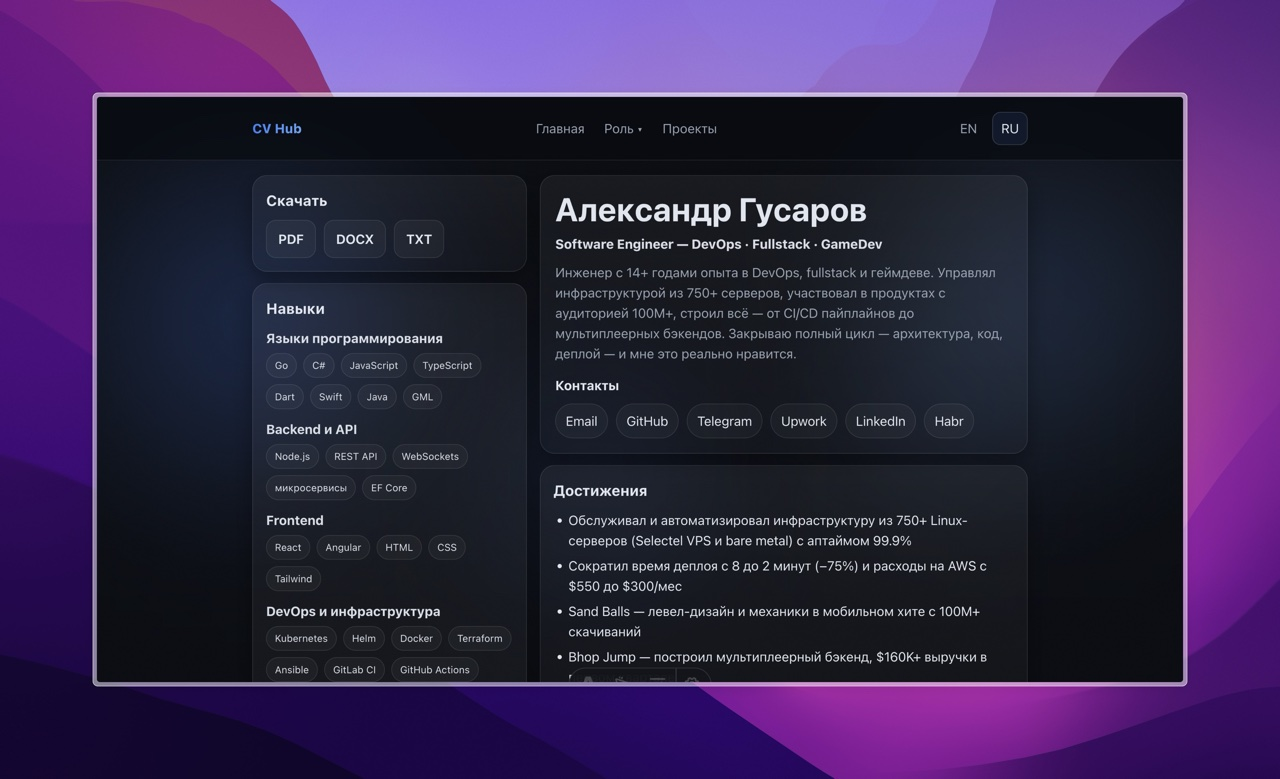
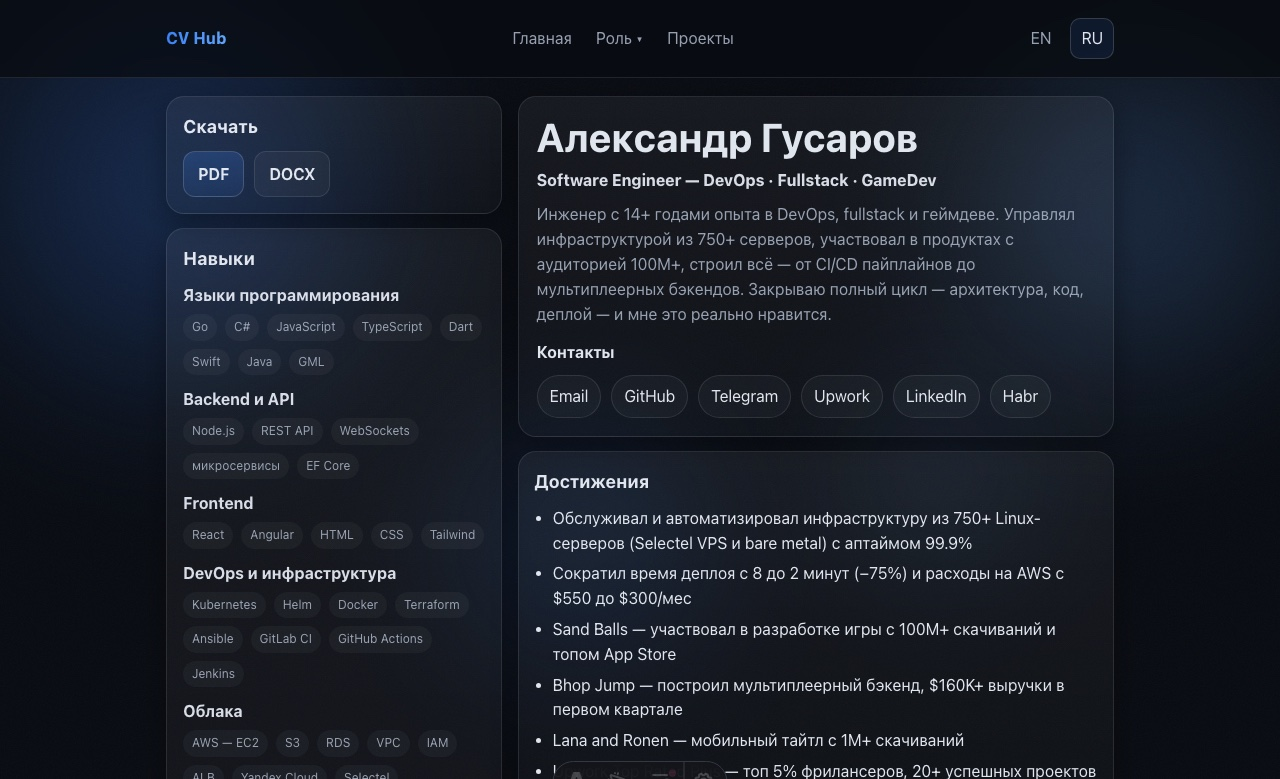
UPD/ idk thats huge 1.6.0 pre-release update

diff --git a/src/content.config.ts b/src/content.config.ts
@@ -193,6 +193,33 @@ const i18n = defineCollection({
   }),
 });
 
+// Site — deployment-wide settings, not tied to any profile or language.
+// Grows over time (analytics opt-in, "open to work" status, footer credit
+// toggle, ...); `downloads` is the first field. See docs/INFO.md.
+const downloadFormat = z.enum(['pdf', 'pdfAts', 'docx', 'txt']);
+
+const site = defineCollection({
+  loader: glob({ pattern: '*.{yaml,yml}', base: './src/content/site' }),
+  schema: z.object({
+    // Flat = one implicit ungrouped bucket: downloads: [pdf, docx].
+    // Grouped = a labeled section per audience — required as soon as two
+    // entries would render the same button label (e.g. pdf + pdfAts both
+    // show "PDF"); see docs/INFO.md §17 for the convention.
+    downloads: z.union([
+      z.array(downloadFormat),
+      z.array(z.object({
+        group: z.string().nullable().optional().default(null),
+        items: z.array(downloadFormat),
+      })),
+    ]).optional().default(['pdf', 'docx']),
+    // Opt-out "Made with CV Hub" footer credit, next to the GitHub link —
+    // always points at the upstream project (not GITHUB_REPOSITORY, unlike
+    // the rest of the footer), so every deployed fork stays a discoverable
+    // backlink. On by default; set to false to remove it.
+    footerCredit: z.boolean().optional().default(true),
+  }),
+});
+
 export const collections = {
   cv,
   showcase,
@@ -200,4 +227,5 @@ export const collections = {
   profiles,
   languages,
   i18n,
+  site,
 };

diff --git a/src/styles/global.css b/src/styles/global.css
@@ -543,6 +543,13 @@ a:hover { text-decoration: underline; }
   flex-wrap: wrap;
 }
 
+/* A grouped download row's own title sits flush under the card heading, but
+   a second (or later) group needs breathing room above it — matched on "a
+   title right after a previous button row", so the first group is untouched. */
+.btnrow + .skillsgroup__title {
+  margin-top: 14px;
+}
+
 .btn {
   display: inline-block;
   padding: 10px 14px;
@@ -953,6 +960,12 @@ a:hover { text-decoration: underline; }
   justify-content: space-between;
   font-size: 13px;
   color: var(--muted);
+}
+
+.footer__links {
+  display: flex;
+  align-items: center;
+  gap: 16px;
 }
 
 .footer__link {
